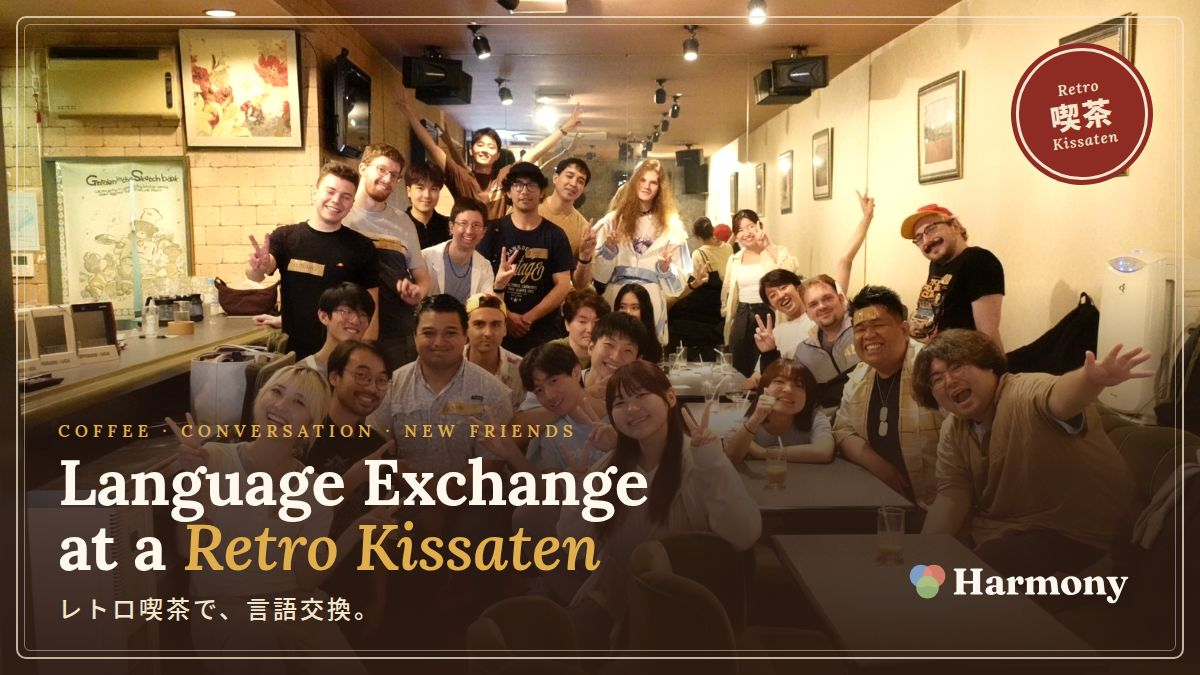
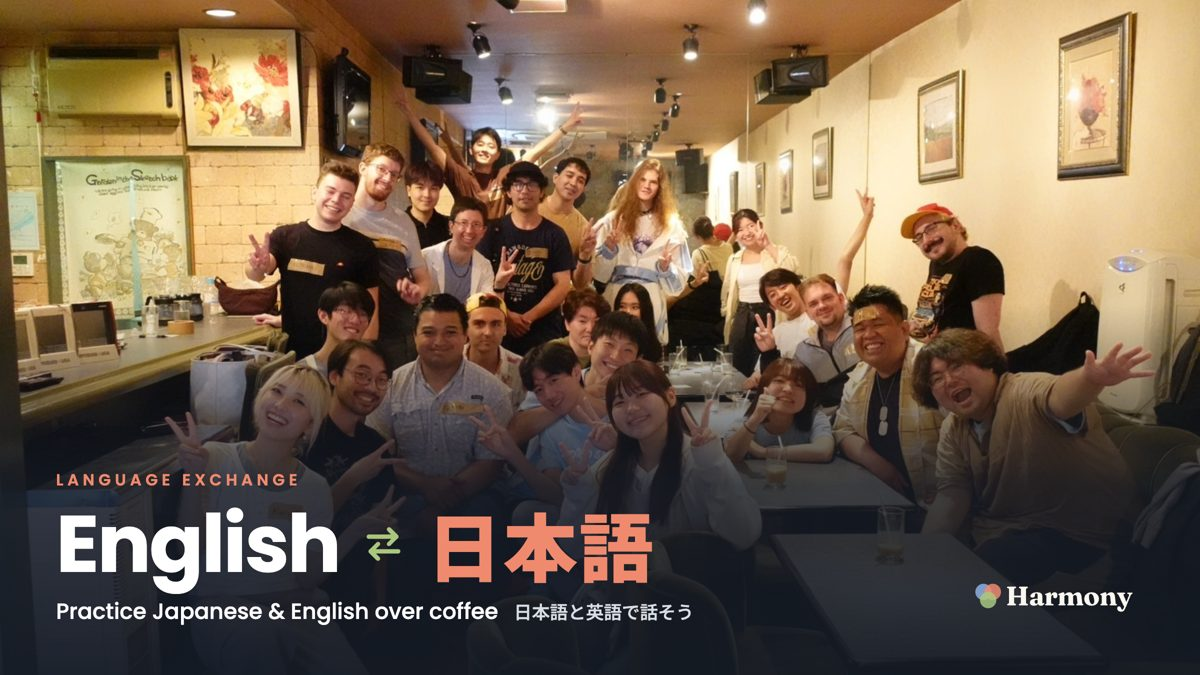
Rename events, new language exchange thumbnail, clearer drink-included pricing
Claude-Session: https://claude.ai/code/session_01X6V1Ao8ZRkKXLgth3uUxKL

diff --git a/index.html b/index.html
@@ -190,6 +190,7 @@ section { padding-block: clamp(3.5rem, 8vw, 6rem); }
 .item-name { font-weight: 700; font-size: 1.08rem; min-width: 0; }
 .leader { flex: 1; border-bottom: 2px dotted rgba(243,238,227,.4); transform: translateY(-.3em); min-width: 1.5rem; }
 .price { font-family: var(--f-display); font-weight: 700; font-size: 1.2rem; font-variant-numeric: tabular-nums; white-space: nowrap; }
+.price small { font-family: var(--f-body); font-weight: 500; font-size: .72rem; color: var(--gold); margin-left: .5em; letter-spacing: .02em; }
 .item-meta { color: var(--board-soft); font-size: .88rem; display: flex; flex-wrap: wrap; gap: .3rem 1rem; align-items: center; }
 .item-meta .tag { color: var(--gold); }
 .item-meta .full { color: var(--rose); font-weight: 700; }
@@ -393,9 +394,9 @@ footer img { height: 28px; }
       </div>
       <div class="kinds">
         <article class="kind">
-          <img src="assets/thumb-language.jpg" alt="Language Exchange at a Retro Kissaten" loading="lazy">
+          <img src="assets/thumb-language.jpg" alt="Language Exchange: English ⇄ 日本語" loading="lazy">
           <div class="kind-body">
-            <h3 class="ja">言語交換 @レトロ喫茶</h3><h3 class="en"><span class="display">Language Exchange</span></h3>
+            <h3 class="ja">言語交換イベント</h3><h3 class="en"><span class="display">Language Exchange</span></h3>
             <p class="lede ja">日本語と英語で、少人数でゆっくり話す定番イベント</p><p class="lede en">Our signature event: small tables, Japanese and English</p>
             <details class="more">
               <summary><span class="ja">詳細はこちら</span><span class="en">See details</span></summary>
@@ -405,7 +406,7 @@ footer img { height: 28px; }
             <dl class="spec">
               <dt><span class="ja">時間</span><span class="en">When</span></dt><dd><span class="ja">主に土日 11:00–13:00（受付10:45〜）</span><span class="en">Mostly weekends, 11:00–13:00 (check-in from 10:45)</span></dd>
               <dt><span class="ja">流れ</span><span class="en">Flow</span></dt><dd><span class="ja">受付・自己紹介シート → 3ラウンドの交流 → 終了後はみんなでご飯（任意）</span><span class="en">Check-in &amp; intro sheet → 3 rounds of tables → lunch together afterwards (optional)</span></dd>
-              <dt><span class="ja">料金</span><span class="en">Fee</span></dt><dd><span class="ja">500円 ＋ 1ドリンク（500円）</span><span class="en">¥500 + one drink (¥500)</span></dd>
+              <dt><span class="ja">料金</span><span class="en">Fee</span></dt><dd><span class="ja">1,000円（1ドリンク込み）</span><span class="en">¥1,000 (one drink included)</span></dd>
             </dl>
               </div>
             </details>
@@ -414,7 +415,7 @@ footer img { height: 28px; }
         <article class="kind">
           <img src="assets/thumb-karaoke.jpg" alt="Karaoke Meetup" loading="lazy">
           <div class="kind-body">
-            <h3 class="ja">言語交換＆カラオケ</h3><h3 class="en"><span class="display">Language Exchange &amp; Karaoke</span></h3>
+            <h3 class="ja">カラオケイベント</h3><h3 class="en"><span class="display">Karaoke</span></h3>
             <p class="lede ja">交流のあとは、みんなでカラオケ</p><p class="lede en">Chat first, then sing together</p>
             <details class="more">
               <summary><span class="ja">詳細はこちら</span><span class="en">See details</span></summary>
@@ -424,7 +425,7 @@ footer img { height: 28px; }
             <dl class="spec">
               <dt><span class="ja">時間</span><span class="en">When</span></dt><dd><span class="ja">主に土曜 14:00〜（回によって終了時間が異なります）</span><span class="en">Mostly Saturdays from 14:00 (end time varies)</span></dd>
               <dt><span class="ja">流れ</span><span class="en">Flow</span></dt><dd><span class="ja">言語交流（席替えあり） → カラオケタイム → 集合写真</span><span class="en">Language exchange with seat changes → karaoke time → group photo</span></dd>
-              <dt><span class="ja">料金</span><span class="en">Fee</span></dt><dd><span class="ja">2,000円</span><span class="en">¥2,000</span></dd>
+              <dt><span class="ja">料金</span><span class="en">Fee</span></dt><dd><span class="ja">2,000円（1ドリンク込み）</span><span class="en">¥2,000 (one drink included)</span></dd>
             </dl>
               </div>
             </details>
@@ -433,7 +434,7 @@ footer img { height: 28px; }
         <article class="kind">
           <img src="assets/thumb-run.jpg" alt="Morning Run &amp; Coffee" loading="lazy">
           <div class="kind-body">
-            <h3 class="ja">モーニングラン＆コーヒー</h3><h3 class="en"><span class="display">Morning Run &amp; Coffee</span></h3>
+            <h3 class="ja">ラン＆コーヒーイベント</h3><h3 class="en"><span class="display">Run &amp; Coffee</span></h3>
             <p class="lede ja">日曜の朝に走って、コーヒーで交流</p><p class="lede en">A Sunday run, then coffee and conversation</p>
             <details class="more">
               <summary><span class="ja">詳細はこちら</span><span class="en">See details</span></summary>
@@ -444,7 +445,7 @@ footer img { height: 28px; }
               <dt><span class="ja">時間</span><span class="en">When</span></dt><dd><span class="ja">毎週日曜 8:00–10:00（8:00 カフェ集合）</span><span class="en">Every Sunday 8:00–10:00 (meet at the café at 8:00)</span></dd>
               <dt><span class="ja">雨の日</span><span class="en">Rain</span></dt><dd><span class="ja">ランは中止して、カフェで交流します</span><span class="en">We skip the run and meet at the café</span></dd>
               <dt><span class="ja">持ち物</span><span class="en">Bring</span></dt><dd><span class="ja">走りやすい服と靴。荷物はカフェに置けます（シャワーはありません）</span><span class="en">Running clothes and shoes. Leave your bag at the café (no showers)</span></dd>
-              <dt><span class="ja">料金</span><span class="en">Fee</span></dt><dd><span class="ja">500円 ＋ 1ドリンク（500円）</span><span class="en">¥500 + one drink (¥500)</span></dd>
+              <dt><span class="ja">料金</span><span class="en">Fee</span></dt><dd><span class="ja">1,000円（1ドリンク込み）</span><span class="en">¥1,000 (one drink included)</span></dd>
             </dl>
               </div>
             </details>
@@ -454,7 +455,7 @@ footer img { height: 28px; }
           <img src="assets/thumb-sake.jpg" alt="Sake &amp; Language Exchange" loading="lazy">
           <div class="kind-body">
             <p class="badge"><span class="ja">20歳以上</span><span class="en">20+ only</span></p>
-            <h3 class="ja">日本酒＆言語交換</h3><h3 class="en"><span class="display">Sake &amp; Language Exchange</span></h3>
+            <h3 class="ja">日本酒イベント</h3><h3 class="en"><span class="display">Sake Tasting</span></h3>
             <p class="lede ja">日本酒を飲み比べながら交流する特別イベント</p><p class="lede en">A special evening of sake tasting and conversation</p>
             <details class="more">
               <summary><span class="ja">詳細はこちら</span><span class="en">See details</span></summary>
@@ -482,14 +483,14 @@ footer img { height: 28px; }
         <p class="eyebrow">Menu · 本日のおしながき</p>
         <h2 class="ja">開催予定のイベント</h2>
         <h2 class="en"><span class="display">Upcoming events</span></h2>
-        <p class="ja">これから1か月のイベントです。Meetupの予定がそのままここに並びます。参加したい回の「申し込む」を押してください。</p>
-        <p class="en">Events for the next month, the same ones as on our Meetup page. Tap "Join" on the one you'd like to attend.</p>
+        <p class="ja">これから1か月のイベントです。参加したい回の「申し込む」を押してください。</p>
+        <p class="en">Events for the next month. Tap "Join" on the one you'd like to attend.</p>
       </div>
       <div class="board-frame">
         <div class="filters" id="filters" role="group" aria-label="Filter"></div>
         <div id="event-list"><p class="board-empty"><span class="ja">読み込み中…</span><span class="en">Loading…</span></p></div>
-        <p class="board-foot ja">料金はすべて現金またはPayPay（クレジットカード不可）。表示価格は当日お支払いいただく合計額です（ドリンク代込み）。</p>
-        <p class="board-foot en">Cash or PayPay only (no credit cards). Prices shown are the total you pay on the day, drink included.</p>
+        <p class="board-foot ja">表示価格は、参加費と1ドリンクを合わせた合計額です（ドリンク込み）。お支払いは当日、現金またはPayPayで（クレジットカード不可）。</p>
+        <p class="board-foot en">Prices are the total including one drink. Pay on the day in cash or PayPay (no credit cards).</p>
       </div>
     </div>
   </section>
@@ -777,22 +778,22 @@ const SNAPSHOT = [
   "meetupUrl": "https://www.meetup.com/yokohama-meetup-group-harmony/events/316792807/"
  },
  {
-  "id": "manual-sake-1025",
+  "id": "event_316790242@meetup.com",
   "type": "sake",
   "start": "2026-10-25T09:00:00.000Z",
   "end": "2026-10-25T11:30:00.000Z",
   "feeEn": "3,000 yen total (sake tasting included)",
   "feeJa": "合計3,000円（日本酒テイスティング込み）",
-  "meetupUrl": "",
+  "meetupUrl": "https://www.meetup.com/yokohama-meetup-group-harmony/events/316790242/",
   "capacity": 20
  }
 ];
 
 const TYPES = {
-  language: { ja: "言語交換 @レトロ喫茶", en: "Language Exchange", tagJa: "日本語＆英語で交流", tagEn: "Chat in Japanese & English" },
-  karaoke:  { ja: "言語交換＆カラオケ", en: "Language Exchange & Karaoke", tagJa: "カラオケ交流", tagEn: "Karaoke & chat" },
-  run:      { ja: "モーニングラン＆コーヒー", en: "Morning Run & Coffee", tagJa: "鶴見川沿い3〜5km・雨天はカフェ交流", tagEn: "3–5 km by the river · café if it rains" },
-  sake:     { ja: "日本酒＆言語交換", en: "Sake & Language Exchange", tagJa: "日本酒テイスティングと交流・20歳以上", tagEn: "Sake tasting & chat · 20+ only" },
+  language: { ja: "言語交換イベント", en: "Language Exchange", tagJa: "日本語＆英語で交流", tagEn: "Chat in Japanese & English" },
+  karaoke:  { ja: "カラオケイベント", en: "Karaoke", tagJa: "カラオケ交流", tagEn: "Karaoke & chat" },
+  run:      { ja: "ラン＆コーヒーイベント", en: "Run & Coffee", tagJa: "鶴見川沿い3〜5km・雨天はカフェ交流", tagEn: "3–5 km by the river · café if it rains" },
+  sake:     { ja: "日本酒イベント", en: "Sake Tasting", tagJa: "日本酒テイスティングと交流・20歳以上", tagEn: "Sake tasting & chat · 20+ only" },
   matcha:   { ja: "抹茶ミートアップ", en: "Matcha Meetup", tagJa: "抹茶体験", tagEn: "Matcha experience" }
 };
 
@@ -898,6 +899,11 @@ function render() {
   updateEventNote();
 }
 
+function inclLabel(e) {
+  if (e.type === "sake") return lang === "ja" ? "日本酒込み" : "sake incl.";
+  return lang === "ja" ? "ドリンク込み" : "drink incl.";
+}
+
 function itemHTML(e) {
   const m = MSG[lang];
   const t = TYPES[e.type] || TYPES.language;
@@ -906,7 +912,7 @@ function itemHTML(e) {
     : (e.spotsLeft != null ? `<span>${esc(m.left(e.spotsLeft))}</span>` : "");
   return `
     <div class="item">
-      <div class="item-row"><span class="item-name">${esc(t[lang])}${SPECIAL.includes(e.type) ? `<span class="sp-tag">${lang === "ja" ? "特別イベント" : "Special"}</span>` : ""}</span><span class="leader" aria-hidden="true"></span><span class="price">${yen ? "¥" + yen.toLocaleString("en-US") : ""}</span></div>
+      <div class="item-row"><span class="item-name">${esc(t[lang])}${SPECIAL.includes(e.type) ? `<span class="sp-tag">${lang === "ja" ? "特別イベント" : "Special"}</span>` : ""}</span><span class="leader" aria-hidden="true"></span><span class="price">${yen ? "¥" + yen.toLocaleString("en-US") : ""}${yen ? `<small>${esc(inclLabel(e))}</small>` : ""}</span></div>
       <div class="item-meta"><span>${esc(timeRange(e))}</span><span class="tag">${esc(lang === "ja" ? t.tagJa : t.tagEn)}</span>${spots}</div>
       <div class="item-actions">
         <button type="button" class="join-btn" data-join="${esc(e.id)}">${esc(m.join)}</button>
@@ -918,7 +924,8 @@ function itemHTML(e) {
 function updateEventNote() {
   const e = events.find(x => x.id === $("#f-event").value);
   $("#over20-wrap").hidden = !(e && e.type === "sake");
-  $("#event-note").textContent = e ? [lang === "ja" ? e.feeJa : e.feeEn, e.venue].filter(Boolean).join(" · ") : "";
+  const y = e ? totalYen(e) : null;
+  $("#event-note").textContent = e ? [y ? "¥" + y.toLocaleString("en-US") + (lang === "ja" ? "（" + inclLabel(e) + "）" : " (" + inclLabel(e) + ")") : "", e.venue].filter(Boolean).join(" · ") : "";
 }
 
 function applyWindow() {
